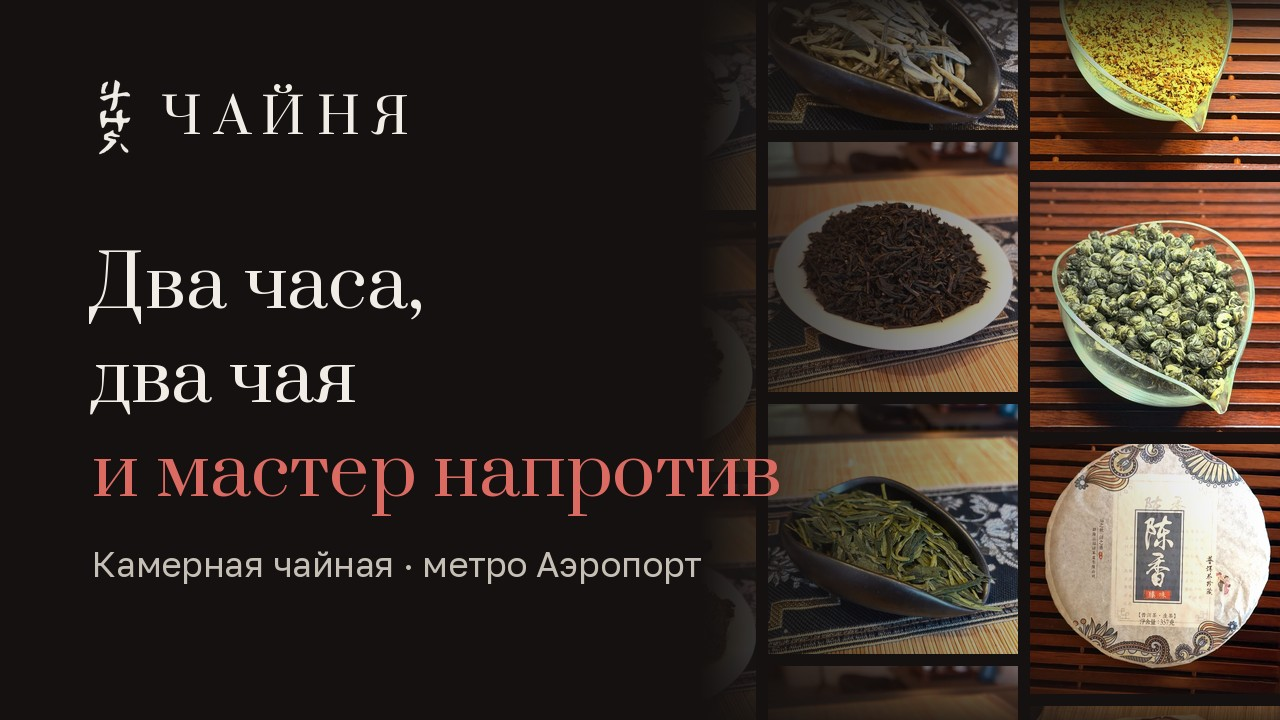
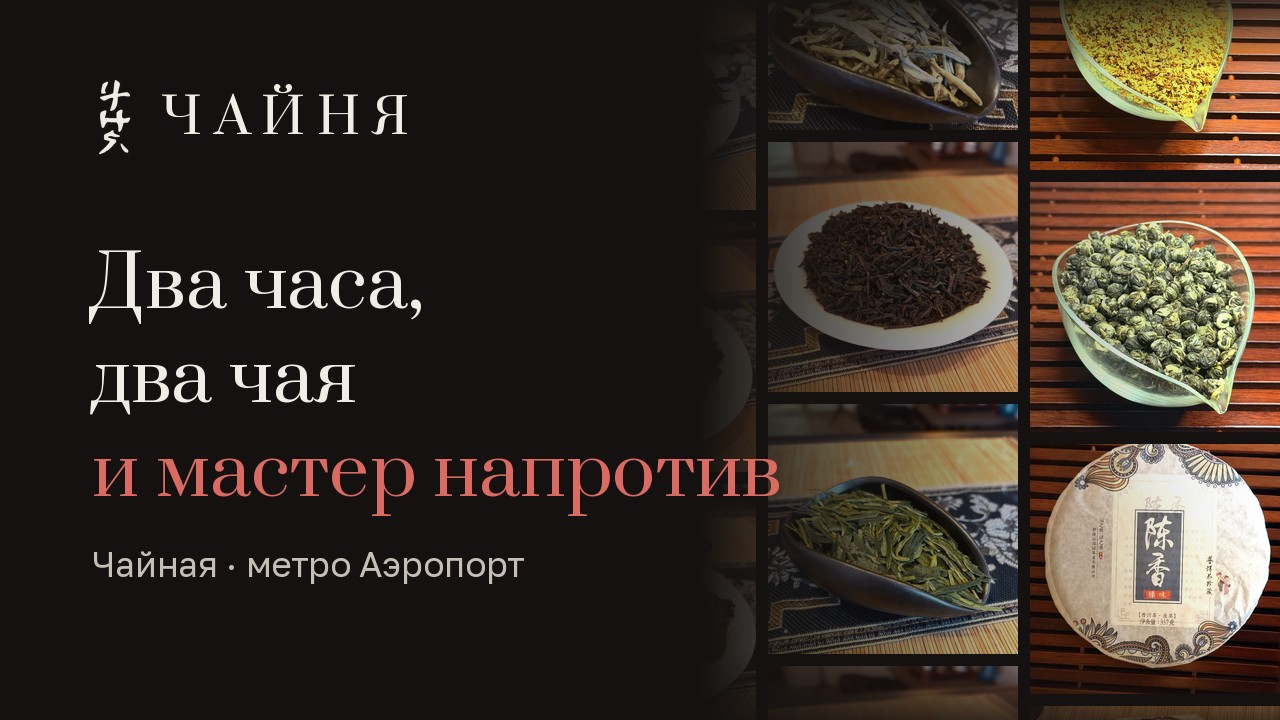
Убрал «камерная» — просто чайная (сайт RU/EN/ZH, мета, обложка, бот)

Changed region(s): [[0.0625, 0.7639, 0.5625, 0.825]]

diff --git a/src.html b/src.html
@@ -1334,7 +1334,7 @@ select.input{
     alt_logo:'Знак Чайни: буквы Ч, Н, Я, сложенные под иероглиф',
     alt_pour:'Мастер наливает настой в чахай',
     credo_label:'Зачем мы это делаем', credo_q:'Чай — это не только строгая церемония, но и повод поэкспериментировать',
-    credo_p1:'Чайня — камерное пространство для тех, кто хочет не просто попробовать китайский чай и приятно провести вечер, а покопаться в нём. Спросить, почему этот лист пахнет сиренью, а тот хлебом. Сравнить два чая рядом и понять, что вам ближе.',
+    credo_p1:'Чайня — пространство для тех, кто хочет не просто попробовать китайский чай и приятно провести вечер, а покопаться в нём. Спросить, почему этот лист пахнет сиренью, а тот хлебом. Сравнить два чая рядом и понять, что вам ближе.',
     credo_p2:'Поэтому мы не читаем лекцию по канону и не требуем тишины. Хотите заварить непривычно — заварим непривычно. Хотите чаочжоускую церемонию, где чайник набивают доверху и пьют маленькими пиалами, — скажите, проведём и её.',
     alt_self:'Чайный стол сверху: чабань, гайвань, чахай и чаши',
     alt_room:'Зал чайной: низкие столы, ротанговые лампы, окно во двор',
@@ -1468,7 +1468,7 @@ select.input{
     alt_logo:'The Chaynya mark: the letters Ч, Н, Я stacked like a Chinese character',
     alt_pour:'The master pouring the liquor into a cha hai',
     credo_label:'Why we do this', credo_q:'Tea is not only a strict ceremony. It is also a reason to experiment',
-    credo_p1:'Chaynya is a small room for people who want more than a taste of Chinese tea and a pleasant evening: they want to dig into it. To ask why this leaf smells of lilac and that one of bread. To put two teas side by side and work out which one is theirs.',
+    credo_p1:'Chaynya is a place for people who want more than a taste of Chinese tea and a pleasant evening: they want to dig into it. To ask why this leaf smells of lilac and that one of bread. To put two teas side by side and work out which one is theirs.',
     credo_p2:'So we do not lecture you on the canon and we do not ask for silence. Want it brewed in an unusual way? We will brew it that way. Want the Chaozhou ceremony, where the pot is packed full and the tea drunk from tiny bowls? Say so and we will run it.',
     alt_self:'A tea table from above: tray, gaiwan, pitcher and cups',
     alt_room:'The tea room: low tables, rattan lamps, a window onto the courtyard',
@@ -1602,7 +1602,7 @@ select.input{
     alt_logo:'Chaynya的标记：Ч、Н、Я三个字母叠成汉字的样子',
     alt_pour:'茶艺师把茶汤注入茶海',
     credo_label:'我们为什么做这件事', credo_q:'茶不只是严谨的仪式，也是一个可以动手实验的契机',
-    credo_p1:'Chaynya是一间小小的茶室，面向那些不满足于「尝一口中国茶、度过一个愉快夜晚」的人：他们想再往里挖一挖。想问清楚为什么这片叶子有丁香味，那片却是面包味。想把两款茶并排摆着，弄明白哪一款才是自己的。',
+    credo_p1:'Chaynya是一间茶室，面向那些不满足于「尝一口中国茶、度过一个愉快夜晚」的人：他们想再往里挖一挖。想问清楚为什么这片叶子有丁香味，那片却是面包味。想把两款茶并排摆着，弄明白哪一款才是自己的。',
     credo_p2:'所以我们不会照本宣科地讲规矩，也不要求您保持安静。想用不常见的方式泡？那就那样泡。想试潮州的泡法——壶里塞满茶，用小盏喝？说一声，我们就给您泡。',
     alt_self:'茶席俯视：茶盘、盖碗、茶海与茶杯',
     alt_room:'茶室：矮桌、藤编吊灯、朝向院子的窗',

diff --git a/build.py b/build.py
@@ -31,7 +31,7 @@ assert "/*@FONTS@*/" in src, "маркер /*@FONTS@*/ пропал из src.htm
 # Тот же заголовок, что в словаре I18N.ru: JS перепишет его при старте,
 # но краулерам и первой отрисовке достаётся статический.
 TITLE = "Чайня · чайная на Острякова"
-DESC = ("Камерная чайная у метро Аэропорт. Чайная церемония с мастером, два чая "
+DESC = ("Чайная у метро Аэропорт. Чайная церемония с мастером, два чая "
         "на выбор уже в стоимости. Китайский чай прямого привоза и доставка по России.")
 
 # og:image обязан быть абсолютным: по относительному пути телеграм и соцсети

diff --git a/make_bot_assets.py b/make_bot_assets.py
@@ -131,7 +131,7 @@ for text, color in lines:
     d.text((X, y), text, font=f_h, fill=color)
     y += 94
 # одна крупная подпись (мелкие строки убраны — их дублирует подпись под фото)
-d.text((X, y + 24), "Камерная чайная · метро Аэропорт", font=golos(35), fill=(198, 191, 182))
+d.text((X, y + 24), "Чайная · метро Аэропорт", font=golos(35), fill=(198, 191, 182))
 
 cov.save(root / "src-assets" / "bot-cover.jpg", "JPEG", quality=90, progressive=True)
 print("bot-cover.jpg:", cov.size)